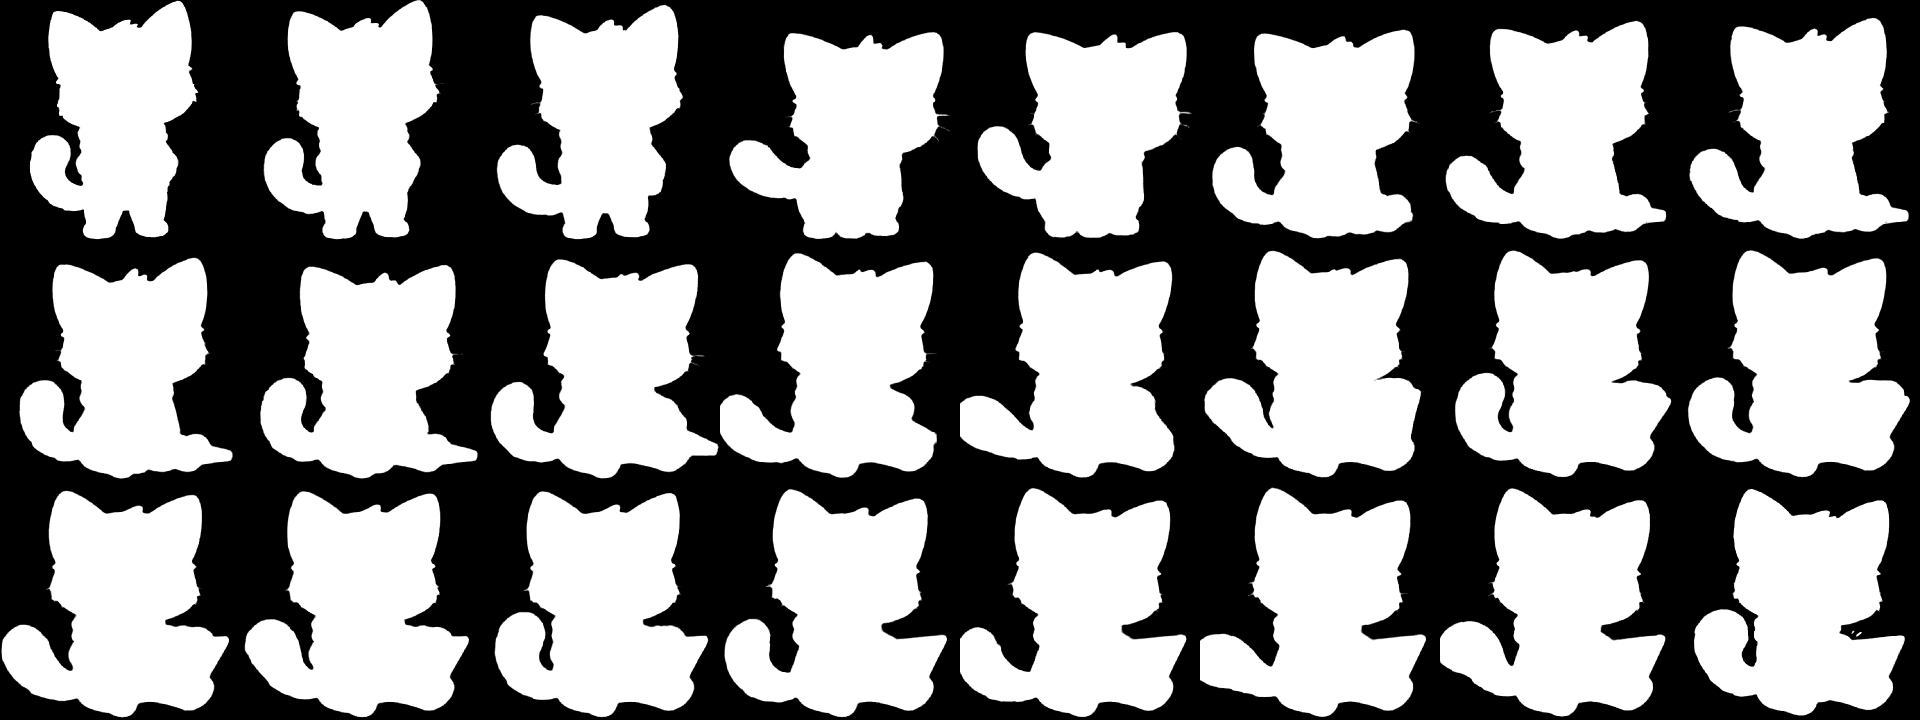
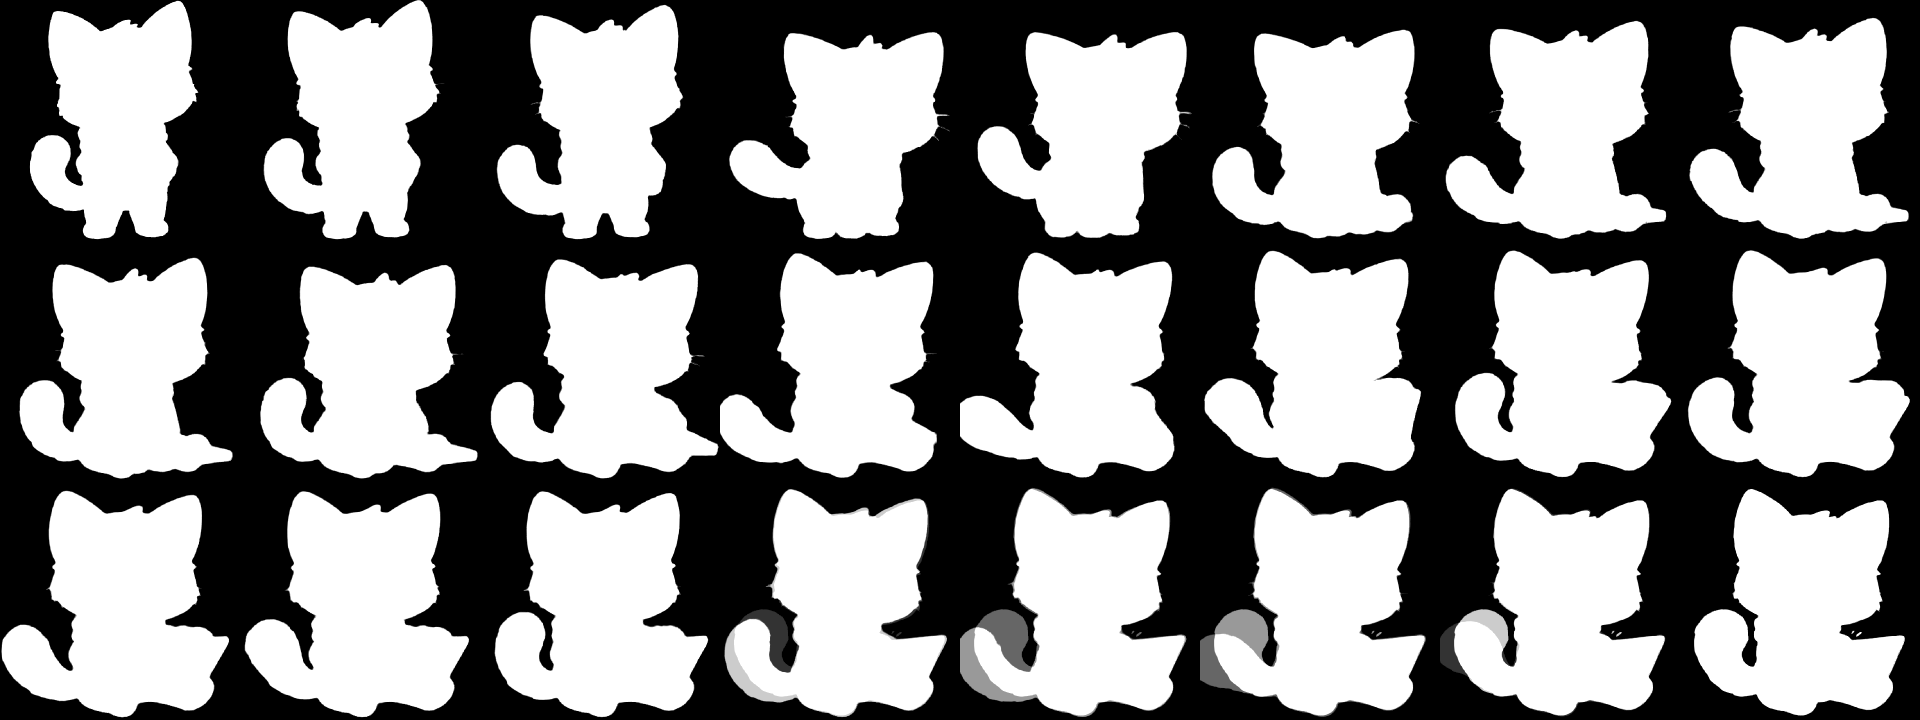
feat: 过渡的首尾帧改用循环自己的第一帧；过渡结尾逐渐混向最后一帧
原图当尾帧，过渡最后一帧（原图，张嘴笑）到 working 循环第一帧（皱眉闭嘴）差 0.21–0.31，
是正常一帧的七到十倍。模型最后一两帧硬吸到尾帧上（0.16），混开后是 0.034。

diff --git a/scripts/cat-frames.swift b/scripts/cat-frames.swift
@@ -107,12 +107,20 @@ func rgba(_ image: CGImage, width: Int, height: Int, crop: CGRect? = nil) -> [Fl
 /// 阴影是暗绿，照样算背景，所以模型自己加的投影会被一起抠掉。
 /// 抠完再去溢色：边缘残留的绿压回 max(R, B)，否则猫会描一圈绿边。
 func key(_ image: CGImage, channel: Int, art: CGRect) -> Frame {
-    let w = image.width, h = image.height
-    let box = CGRect(x: art.minX * Double(w), y: art.minY * Double(h),
-                     width: art.width * Double(w), height: art.height * Double(h)).integral
     // 先在两倍尺寸上抠，再缩到目标尺寸，边缘的半透明才是平滑的。
     let big = size * 2
-    var p = rgba(image, width: big, height: big, crop: box)
+    return Frame(pixels: downsample(keyed(image, channel: channel, art: art, side: big), from: big, to: size))
+}
+
+/// 视频像素里这只猫的框。
+func cropBox(_ image: CGImage, art: CGRect) -> CGRect {
+    let w = Double(image.width), h = Double(image.height)
+    return CGRect(x: art.minX * w, y: art.minY * h, width: art.width * w, height: art.height * h).integral
+}
+
+/// 抠好的 side×side 非预乘 RGBA。
+func keyed(_ image: CGImage, channel: Int, art: CGRect, side big: Int) -> [Float] {
+    var p = rgba(image, width: big, height: big, crop: cropBox(image, art: art))
     let other2 = channel == 1 ? 2 : 1  // 红永远是另一个
     for i in stride(from: 0, to: p.count, by: 4) {
         let k = p[i + channel], other = max(p[i], p[i + other2])
@@ -127,7 +135,7 @@ func key(_ image: CGImage, channel: Int, art: CGRect) -> Frame {
         if alpha < 0.9 && lo > 0.55 && hi - lo < 0.12 { p[i + 3] = 0 }
     }
     dropWatermark(&p, side: big)
-    return Frame(pixels: downsample(p, from: big, to: size))
+    return p
 }
 
 /// 豆包会在画面上打一行半透明的「豆包AI生成」，位置还会变。落在绿幕上的那部分
@@ -413,7 +421,7 @@ func emit(_ name: String, kind: String, pose: String, from: String, slice: [Fram
     }
     var list: [Frame]
     switch kind {
-    case "transition": list = resample(trimStill(slice), to: maxTransitionFrames)
+    case "transition": list = easeIntoEnd(resample(trimStill(slice), to: maxTransitionFrames))
     default: list = closeLoop(resample(Array(slice.dropLast()), to: maxFrames))
     }
     guard !list.isEmpty else { print("  skip \(name): no frames"); return }
@@ -434,6 +442,49 @@ func emit(_ name: String, kind: String, pose: String, from: String, slice: [Fram
     print(String(format: "  %-28@ %-10@ %2d frames  %.2fs  seam %.3f%@", name as NSString,
                  kind as NSString, list.count, Double(list.count) / fps,
                  seam, (seam > warn ? "  ⚠ 接缝明显，考虑重抽" : "") as NSString))
+}
+
+// ---- 过渡的首尾帧：用循环自己的第一帧 -----------------------------------------
+
+/// 过渡接到哪个循环，就应该落在那个循环的第一帧上。拿原图当尾帧不行：循环是另一个
+/// 视频里切出来的，表情、大小都跟原图不一样——实测 idle_to_working 的最后一帧
+/// （原图，张嘴笑）到 working 循环第一帧（皱眉闭嘴）差 0.21，是循环里正常一帧
+/// 的七倍。所以每切出一段循环，就把它的第一帧按视频原分辨率抠出来存一张，
+/// cat-seeds.swift 拼过渡的首尾帧时优先用它。
+let anchors = sheetDir.deletingLastPathComponent().appendingPathComponent("anchors")
+
+func saveAnchor(_ pose: String, from url: URL, frame: Int, art: CGRect) async throws {
+    let generator = AVAssetImageGenerator(asset: AVURLAsset(url: url))
+    generator.requestedTimeToleranceBefore = .zero
+    generator.requestedTimeToleranceAfter = .zero
+    generator.appliesPreferredTrackTransform = true
+    let (image, _) = try await generator.image(at: CMTime(seconds: Double(frame) / fps, preferredTimescale: 600))
+    let side = Int(cropBox(image, art: art).width)
+    let p = keyed(image, channel: keyChannel(of: image), art: art, side: side)
+    var bytes = [UInt8](repeating: 0, count: side * side * 4)
+    for i in stride(from: 0, to: p.count, by: 4) {
+        let a = min(max(p[i + 3], 0), 1)
+        for c in 0..<3 { bytes[i + c] = UInt8(min(max(p[i + c], 0), 1) * a * 255 + 0.5) }
+        bytes[i + 3] = UInt8(a * 255 + 0.5)
+    }
+    let ctx = CGContext(data: &bytes, width: side, height: side, bitsPerComponent: 8,
+                        bytesPerRow: side * 4, space: CGColorSpaceCreateDeviceRGB(),
+                        bitmapInfo: CGImageAlphaInfo.premultipliedLast.rawValue)!
+    try FileManager.default.createDirectory(at: anchors, withIntermediateDirectories: true)
+    try write(ctx.makeImage(), to: anchors.appendingPathComponent("\(pose).png"), type: .png, options: [:])
+}
+
+/// 模型在最后一两帧里硬吸到尾帧上（实测最后一步 0.16，正常一帧 0.03）。把最后
+/// 几帧逐渐混向最后一帧，一下跳变成一小段变形。
+func easeIntoEnd(_ frames: [Frame]) -> [Frame] {
+    var out = frames
+    let tail = min(4, out.count / 4)
+    guard tail > 0, let last = out.last else { return out }
+    for k in 0..<tail {
+        let i = out.count - 1 - tail + k
+        out[i] = out[i].blended(toward: last, by: Float(k + 1) / Float(tail + 1))
+    }
+    return out
 }
 
 // ---- 全量重建 ---------------------------------------------------------------
@@ -464,6 +515,7 @@ for sheet in spec.sheets {
             else { print("  \(row.from): no calm stretch long enough for a loop — regenerate"); continue }
             try emit(loopName, kind: "loop", pose: row.from, from: "",
                      slice: Array(frames[cut.loop]), seam: cut.loopSeam)
+            try await saveAnchor(row.from, from: url, frame: cut.loop.lowerBound, art: boxes[r])
             // 动作比表里写的多，就把多出来的也留下：第二个叫 <名字>2，以此类推。
             let base = row.segments.first(where: { $0.kind == "fidget" })?.name ?? "\(row.from)@move"
             for (n, fidget) in cut.fidgets.enumerated() {

diff --git a/scripts/cat-seeds.swift b/scripts/cat-seeds.swift
@@ -44,11 +44,21 @@ let boxes = (0..<3).map { row in
     CGRect(x: (width - side) / 2, y: row * rowHeight + 40, width: side, height: side)
 }
 
-func sheet(_ poses: [String]) throws -> CGImage {
+/// 循环第一帧的抠图，cat-frames.swift 切循环时存的。过渡的首尾帧优先用它：
+/// 过渡要接上的是循环，不是原图。
+let anchors = out.deletingLastPathComponent().appendingPathComponent("anchors")
+
+func picture(_ pose: String, anchored: Bool) -> URL {
+    let anchor = anchors.appendingPathComponent("\(pose).png")
+    return anchored && FileManager.default.fileExists(atPath: anchor.path)
+        ? anchor : assets.appendingPathComponent("\(pose).png")
+}
+
+func sheet(_ poses: [String], anchored: Bool = false) throws -> CGImage {
     var image = CIImage(color: CIColor(cgColor: key))
         .cropped(to: CGRect(x: 0, y: 0, width: width, height: height))
     for (row, pose) in poses.enumerated() {
-        guard let source = CIImage(contentsOf: assets.appendingPathComponent("\(pose).png")) else {
+        guard let source = CIImage(contentsOf: picture(pose, anchored: anchored)) else {
             throw CocoaError(.fileReadNoSuchFile, userInfo: [NSFilePathErrorKey: "\(pose).png"])
         }
         // Lanczos 而不是双线性：原图只有 384²，放大后边缘糊了模型会照着糊。
@@ -74,8 +84,10 @@ func write(_ image: CGImage, _ name: String) throws {
 try FileManager.default.createDirectory(at: out, withIntermediateDirectories: true)
 let place = ["上方", "中间", "下方"]
 for item in spec.sheets {
-    try write(try sheet(item.rows.map(\.from)), "\(item.name)-first.png")
-    try write(try sheet(item.rows.map(\.to)), "\(item.name)-last.png")
+    // 循环表的首尾帧是原图：循环本身就是从这里切出来的。过渡表用循环的第一帧。
+    let transition = item.rows.contains { $0.from != $0.to }
+    try write(try sheet(item.rows.map(\.from), anchored: transition), "\(item.name)-first.png")
+    try write(try sheet(item.rows.map(\.to), anchored: transition), "\(item.name)-last.png")
     let lines = item.rows.enumerated().map { "\(place[$0.offset])的猫：\($0.element.action)" }
     // 只能给首帧的工具（豆包）不保证结尾回到原位，只能在提示词里把话说死；
     // 有尾帧的工具这句也无害。
